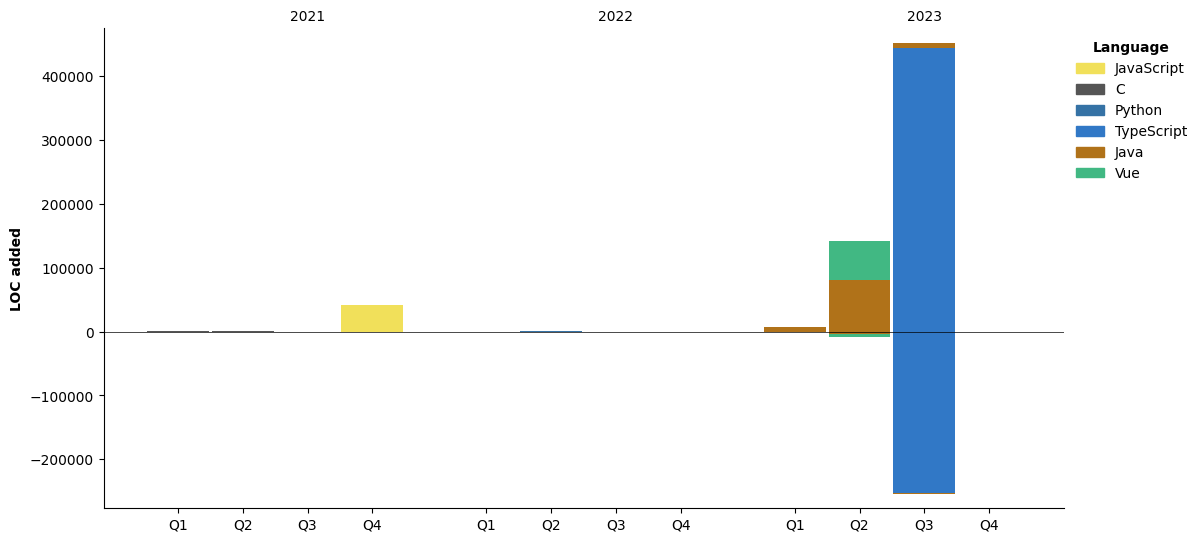
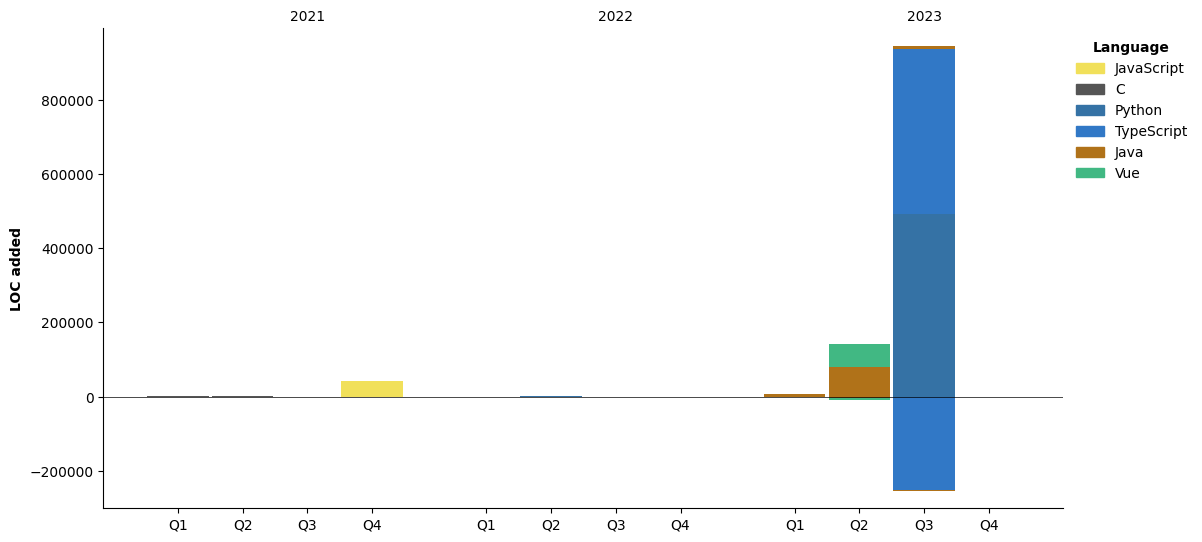
Updated with Dev Metrics

diff --git a/README.md b/README.md
@@ -52,7 +52,90 @@ Here are some ideas to get you started:
   [![Top Langs](https://github-readme-stats.vercel.app/api/top-langs/?username=ParkSeYun98&layout=compact)](https://github.com/anuraghazra/github-readme-stats)
 
   <!--START_SECTION:waka-->
-  <!--END_SECTION:waka-->
+![Code Time](http://img.shields.io/badge/Code%20Time-417%20hrs%2015%20mins-blue)
+
+![Profile Views](http://img.shields.io/badge/Profile%20Views-51-blue)
+
+**🐱 My GitHub Data** 
+
+> 📦 ? Used in GitHub's Storage 
+ > 
+> 🏆 620 Contributions in the Year 2023
+ > 
+> 💼 Opted to Hire
+ > 
+> 📜 11 Public Repositories 
+ > 
+> 🔑 0 Private Repositories 
+ > 
+**I'm an Early 🐤** 
+
+```text
+🌞 Morning                377 commits         ███████░░░░░░░░░░░░░░░░░░   28.52 % 
+🌆 Daytime                455 commits         █████████░░░░░░░░░░░░░░░░   34.42 % 
+🌃 Evening                211 commits         ████░░░░░░░░░░░░░░░░░░░░░   15.96 % 
+🌙 Night                  279 commits         █████░░░░░░░░░░░░░░░░░░░░   21.10 % 
+```
+📅 **I'm Most Productive on Tuesday** 
+
+```text
+Monday                   222 commits         ████░░░░░░░░░░░░░░░░░░░░░   16.79 % 
+Tuesday                  305 commits         ██████░░░░░░░░░░░░░░░░░░░   23.07 % 
+Wednesday                239 commits         █████░░░░░░░░░░░░░░░░░░░░   18.08 % 
+Thursday                 230 commits         ████░░░░░░░░░░░░░░░░░░░░░   17.40 % 
+Friday                   188 commits         ████░░░░░░░░░░░░░░░░░░░░░   14.22 % 
+Saturday                 63 commits          █░░░░░░░░░░░░░░░░░░░░░░░░   04.77 % 
+Sunday                   75 commits          █░░░░░░░░░░░░░░░░░░░░░░░░   05.67 % 
+```
+
+
+📊 **This Week I Spent My Time On** 
+
+```text
+🕑 Time Zone: Asia/Seoul
+
+💬 Programming Languages: 
+Other                    5 hrs 17 mins       ██████████████░░░░░░░░░░░   57.09 % 
+Python                   1 hr 55 mins        █████░░░░░░░░░░░░░░░░░░░░   20.80 % 
+Java                     1 hr 32 mins        ████░░░░░░░░░░░░░░░░░░░░░   16.66 % 
+Text                     16 mins             █░░░░░░░░░░░░░░░░░░░░░░░░   02.99 % 
+Markdown                 5 mins              ░░░░░░░░░░░░░░░░░░░░░░░░░   01.06 % 
+
+🔥 Editors: 
+Chrome                   5 hrs 17 mins       ██████████████░░░░░░░░░░░   57.09 % 
+PyCharm                  2 hrs 14 mins       ██████░░░░░░░░░░░░░░░░░░░   24.14 % 
+IntelliJ                 1 hr 44 mins        █████░░░░░░░░░░░░░░░░░░░░   18.77 % 
+
+🐱💻 Projects: 
+Algorithm_Java           1 hr 50 mins        █████░░░░░░░░░░░░░░░░░░░░   19.94 % 
+0905gpttest              1 hr 33 mins        ████░░░░░░░░░░░░░░░░░░░░░   16.87 % 
+gpttest0905              1 hr 29 mins        ████░░░░░░░░░░░░░░░░░░░░░   16.02 % 
+waka-box                 44 mins             ██░░░░░░░░░░░░░░░░░░░░░░░   08.01 % 
+ComputerScienceStudy     43 mins             ██░░░░░░░░░░░░░░░░░░░░░░░   07.83 % 
+
+💻 Operating System: 
+Windows                  9 hrs 16 mins       █████████████████████████   100.00 % 
+```
+
+**I Mostly Code in Java** 
+
+```text
+Java                     15 repos            ██████████████░░░░░░░░░░░   55.56 % 
+Vue                      4 repos             ████░░░░░░░░░░░░░░░░░░░░░   14.81 % 
+Python                   3 repos             ███░░░░░░░░░░░░░░░░░░░░░░   11.11 % 
+JavaScript               3 repos             ███░░░░░░░░░░░░░░░░░░░░░░   11.11 % 
+TypeScript               1 repo              █░░░░░░░░░░░░░░░░░░░░░░░░   03.70 % 
+```
+
+
+
+**Timeline**
+
+![Lines of Code chart](https://raw.githubusercontent.com/ParkSeYun98/ParkSeYun98/master/assets/bar_graph.png)
+
+
+ Last Updated on 05/09/2023 18:36:09 UTC
+<!--END_SECTION:waka-->
   
   [![Harlok's wakatime stats](https://github-readme-stats.vercel.app/api/wakatime?username=ParkSeYun98)](https://github.com/anuraghazra/github-readme-stats)
   
